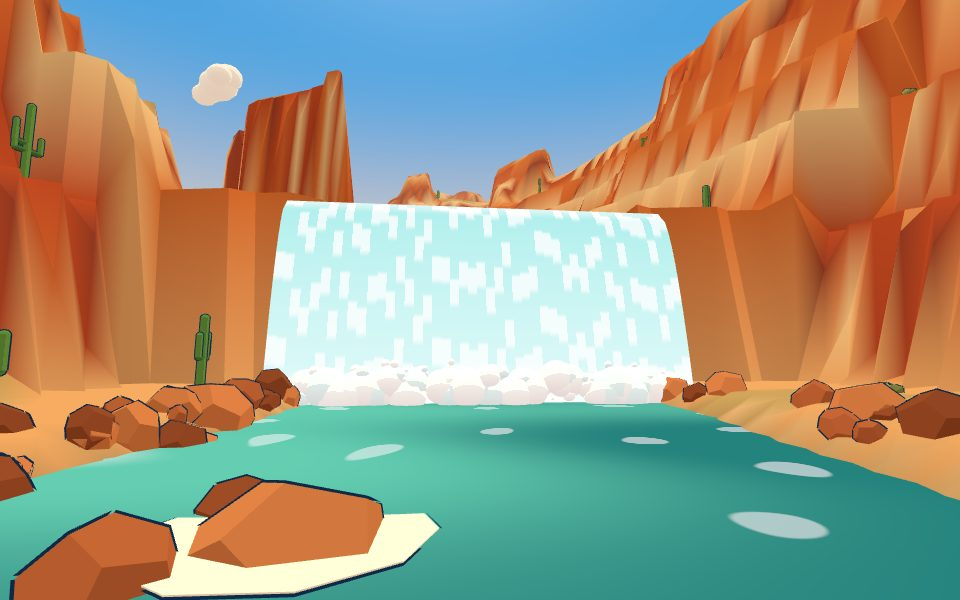
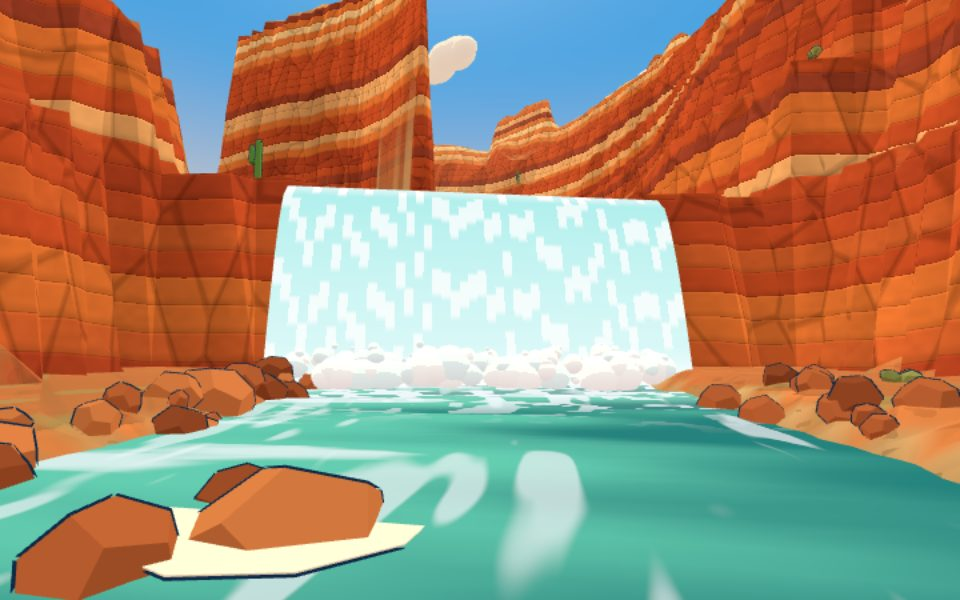
Steepen Gold Rush Rapids, churn white water through its rapids and falls, and texture the canyon in sharp red rock strata

diff --git a/src/groundShader.js b/src/groundShader.js
@@ -109,3 +109,85 @@ export function alpineGround(material) {
   material.customProgramCacheKey = () => 'alpine-ground';
   return material;
 }
+
+const CANYON = /* glsl */ `
+  varying float vKind;
+  vec3 strata(float id) {
+    float h = gHash(vec2(id, 4.1));
+    vec3 a = vec3(0.552, 0.091, 0.028);
+    vec3 b = vec3(0.716, 0.202, 0.048);
+    vec3 c = vec3(0.815, 0.456, 0.202);
+    vec3 d = vec3(0.445, 0.068, 0.025);
+    vec3 e = vec3(0.879, 0.658, 0.361);
+    vec3 f = vec3(0.332, 0.061, 0.032);
+    vec3 g = vec3(0.631, 0.144, 0.040);
+    return h < 0.2 ? a : h < 0.36 ? b : h < 0.47 ? c : h < 0.62 ? d : h < 0.68 ? e : h < 0.8 ? f : g;
+  }
+
+  vec3 canyonRock(vec3 p, vec3 n, float px) {
+    float warp = gFbm(p.xz * 0.011) * 14.0 + gFbm(p.xz * 0.05 + 7.0) * 2.5;
+    float layer = (p.y + warp) / 4.2;
+    float id = floor(layer);
+    float band = fract(layer);
+    vec3 color = strata(id);
+    color *= mix(0.82, 1.05, smoothstep(0.0, 0.35, band));
+    color = mix(color, color * 1.18, smoothstep(0.9, 0.97, band) * (1.0 - smoothstep(0.97, 1.0, band)));
+    color *= 1.0 - (1.0 - smoothstep(0.0, 0.05, band)) * 0.35;
+    float wx = abs(n.x) / (abs(n.x) + abs(n.z) + 1e-4);
+    vec2 uvA = vec2(p.x, p.y);
+    vec2 uvB = vec2(p.z, p.y);
+    vec4 slabA = gCell(uvA * vec2(0.14, 0.05));
+    vec4 slabB = gCell(uvB * vec2(0.14, 0.05) + 31.0);
+    vec4 slab = wx > 0.5 ? slabB : slabA;
+    float seam = 1.0 - smoothstep(0.02, 0.1, slab.y - slab.x);
+    color *= (0.9 + 0.18 * slab.z) * (1.0 - 0.14 * clamp(slab.w * 1.6, -1.0, 1.0));
+    color *= 1.0 - seam * 0.3 * gFade(px, 0.14);
+    float grain = mix(gNoise(uvA * 0.9), gNoise(uvB * 0.9), wx);
+    color *= 1.0 + (grain - 0.5) * 0.16 * gFade(px, 0.9);
+    float stain = smoothstep(0.55, 0.8, gNoise(vec2((wx > 0.5 ? p.z : p.x) * 0.08, p.y * 0.02)));
+    color *= 1.0 - stain * 0.22;
+    return color;
+  }
+
+  vec3 canyonTop(vec3 c, vec2 q, float px) {
+    vec3 dust = vec3(0.687, 0.371, 0.144);
+    vec3 color = mix(c, dust, 0.45) * mix(0.9, 1.08, gFbm(q * 0.03));
+    color = mix(color, vec3(0.32, 0.36, 0.15), smoothstep(0.62, 0.72, gNoise(q * 0.22 + 5.0)) * 0.55 * gFade(px, 0.22));
+    color *= 1.0 - smoothstep(0.74, 0.8, gNoise(q * 0.9 + 2.0)) * 0.18 * gFade(px, 0.9);
+    return color;
+  }
+
+  vec3 canyonSand(vec3 c, vec2 q, float px) {
+    vec3 color = c * mix(0.93, 1.06, gFbm(q * 0.08));
+    color *= 1.0 + (sin(q.x * 1.3 + gNoise(q * 0.2) * 4.0) * 0.5 + 0.5 - 0.5) * 0.08 * gFade(px, 1.3);
+    color = mix(color, color * 0.72, smoothstep(0.78, 0.84, gNoise(q * 1.4 + 9.0)) * gFade(px, 1.4));
+    return color;
+  }
+`;
+
+export function canyonGround(material) {
+  material.onBeforeCompile = (shader) => {
+    shader.vertexShader = shader.vertexShader
+      .replace('#include <common>', '#include <common>\nattribute float aKind;\nvarying float vKind;\nvarying vec3 vGround;\nvarying vec3 vGroundN;')
+      .replace('#include <project_vertex>', '#include <project_vertex>\nvKind = aKind;\nvGround = (modelMatrix * vec4(transformed, 1.0)).xyz;\nvGroundN = normalize(mat3(modelMatrix) * objectNormal);');
+    shader.fragmentShader = shader.fragmentShader
+      .replace('#include <common>', `#include <common>\n${NOISE}\n${CANYON}`)
+      .replace(
+        '#include <color_fragment>',
+        /* glsl */ `#include <color_fragment>
+        {
+          vec3 c = diffuseColor.rgb;
+          float px = length(fwidth(vGround.xz));
+          vec3 n = normalize(vGroundN);
+          vec3 rock = canyonRock(vGround, n, px);
+          vec3 top = canyonTop(rock, vGround.xz, px);
+          vec3 sand = canyonSand(c, vGround.xz, px);
+          float steep = 1.0 - smoothstep(0.55, 0.8, n.y);
+          vec3 ground = mix(top, rock, steep);
+          diffuseColor.rgb = mix(sand, ground, smoothstep(0.2, 0.8, vKind));
+        }`,
+      );
+  };
+  material.customProgramCacheKey = () => 'canyon-ground';
+  return material;
+}

diff --git a/src/canyon.js b/src/canyon.js
@@ -1,5 +1,6 @@
 import * as THREE from 'three';
 import { toon, mulberry32 } from './toon.js';
+import { canyonGround } from './groundShader.js';
 import { groundHit } from './terrain.js';
 import { frame } from './alpine.js';
 import { Batcher, cullChunks, slicer, COLORS, mat, ROCK, createSky, createCloud, createArch, SUN_DIR } from './world.js';
@@ -147,6 +148,7 @@ async function buildTerrain(surface, track, tick) {
   }
   const positions = [];
   const colors = [];
+  const kinds = [];
   const sand = new THREE.Color(0xd9b98a);
   const wetSand = new THREE.Color(0xa88a62);
   const dust = new THREE.Color(0xd8a46a);
@@ -175,6 +177,7 @@ async function buildTerrain(surface, track, tick) {
       }
       positions.push(v.x, v.y, v.z);
       colors.push(tint.r, tint.g, tint.b);
+      kinds.push(v.y < lvl + 1.6 ? 0 : 1);
     }
   };
   for (let r = 0; r < rows - 1; r++) {
@@ -188,8 +191,9 @@ async function buildTerrain(surface, track, tick) {
   const geometry = new THREE.BufferGeometry();
   geometry.setAttribute('position', new THREE.Float32BufferAttribute(positions, 3));
   geometry.setAttribute('color', new THREE.Float32BufferAttribute(colors, 3));
+  geometry.setAttribute('aKind', new THREE.Float32BufferAttribute(kinds, 1));
   geometry.computeVertexNormals();
-  return new THREE.Mesh(geometry, toon(0xffffff, { vertexColors: true }));
+  return new THREE.Mesh(geometry, canyonGround(toon(0xffffff, { vertexColors: true })));
 }
 
 const CYL = new THREE.CylinderGeometry(1, 1, 1, 10);
@@ -338,7 +342,25 @@ export async function createCanyon(group, track, fx) {
   const height = (x, z) => canyonHeight(surface, track, x, z);
   group.add(await buildTerrain(surface, track, tick));
   await tick();
-  const water = buildRiver(track, { deep: 0x23807a, shallow: 0x62c9ad });
+  const rapidsAt = (s) => {
+    if (track.inTunnel(s)) return 0;
+    let foam = 0.18 * smooth(0.45, 0.8, 0.5 + 0.5 * Math.sin(s * 0.021) * Math.sin(s * 0.0071 + 1.3));
+    foam = Math.max(foam, 0.8 * smooth(0.55, 0.85, 0.5 + 0.5 * Math.sin(s * 0.017 + 2) * Math.sin(s * 0.0053)));
+    for (const d of track.river.drops) {
+      const before = track.ahead(s, d.s);
+      const after = track.ahead(d.s, s);
+      if (before < 26) foam = Math.max(foam, 0.75 * (1 - before / 26));
+      if (after < 45) foam = Math.max(foam, 0.85 * (1 - after / 45));
+    }
+    return foam;
+  };
+  const water = buildRiver(track, {
+    deep: 0x23807a,
+    shallow: 0x62c9ad,
+    flowSpeed: 1.05,
+    rapids: 0.6,
+    foamAt: (s, lat) => Math.min(1, rapidsAt(s) + 0.22 * smooth(0.75, 1, Math.abs(lat))),
+  });
   group.add(water.mesh);
   const falls = track.river.drops.map((drop) => buildFalls(track, drop));
   for (const f of falls) group.add(f.mesh);

diff --git a/src/maps.js b/src/maps.js
@@ -60,10 +60,10 @@ export const MAPS = {
     id: 'canyon',
     halfWidth: 22,
     river: {
-      slope: 0.02,
+      slope: 0.05,
       drops: [[0.2, 26], [0.44, 16], [0.63, 30]],
       tunnel: [0.8, 0.93, 0.93],
-      speed: 1.22,
+      speed: 1.3,
     },
     control: [
       [0, 0], [120, -30], [230, -10], [300, 70], [280, 170], [330, 260], [280, 360], [170, 390],
